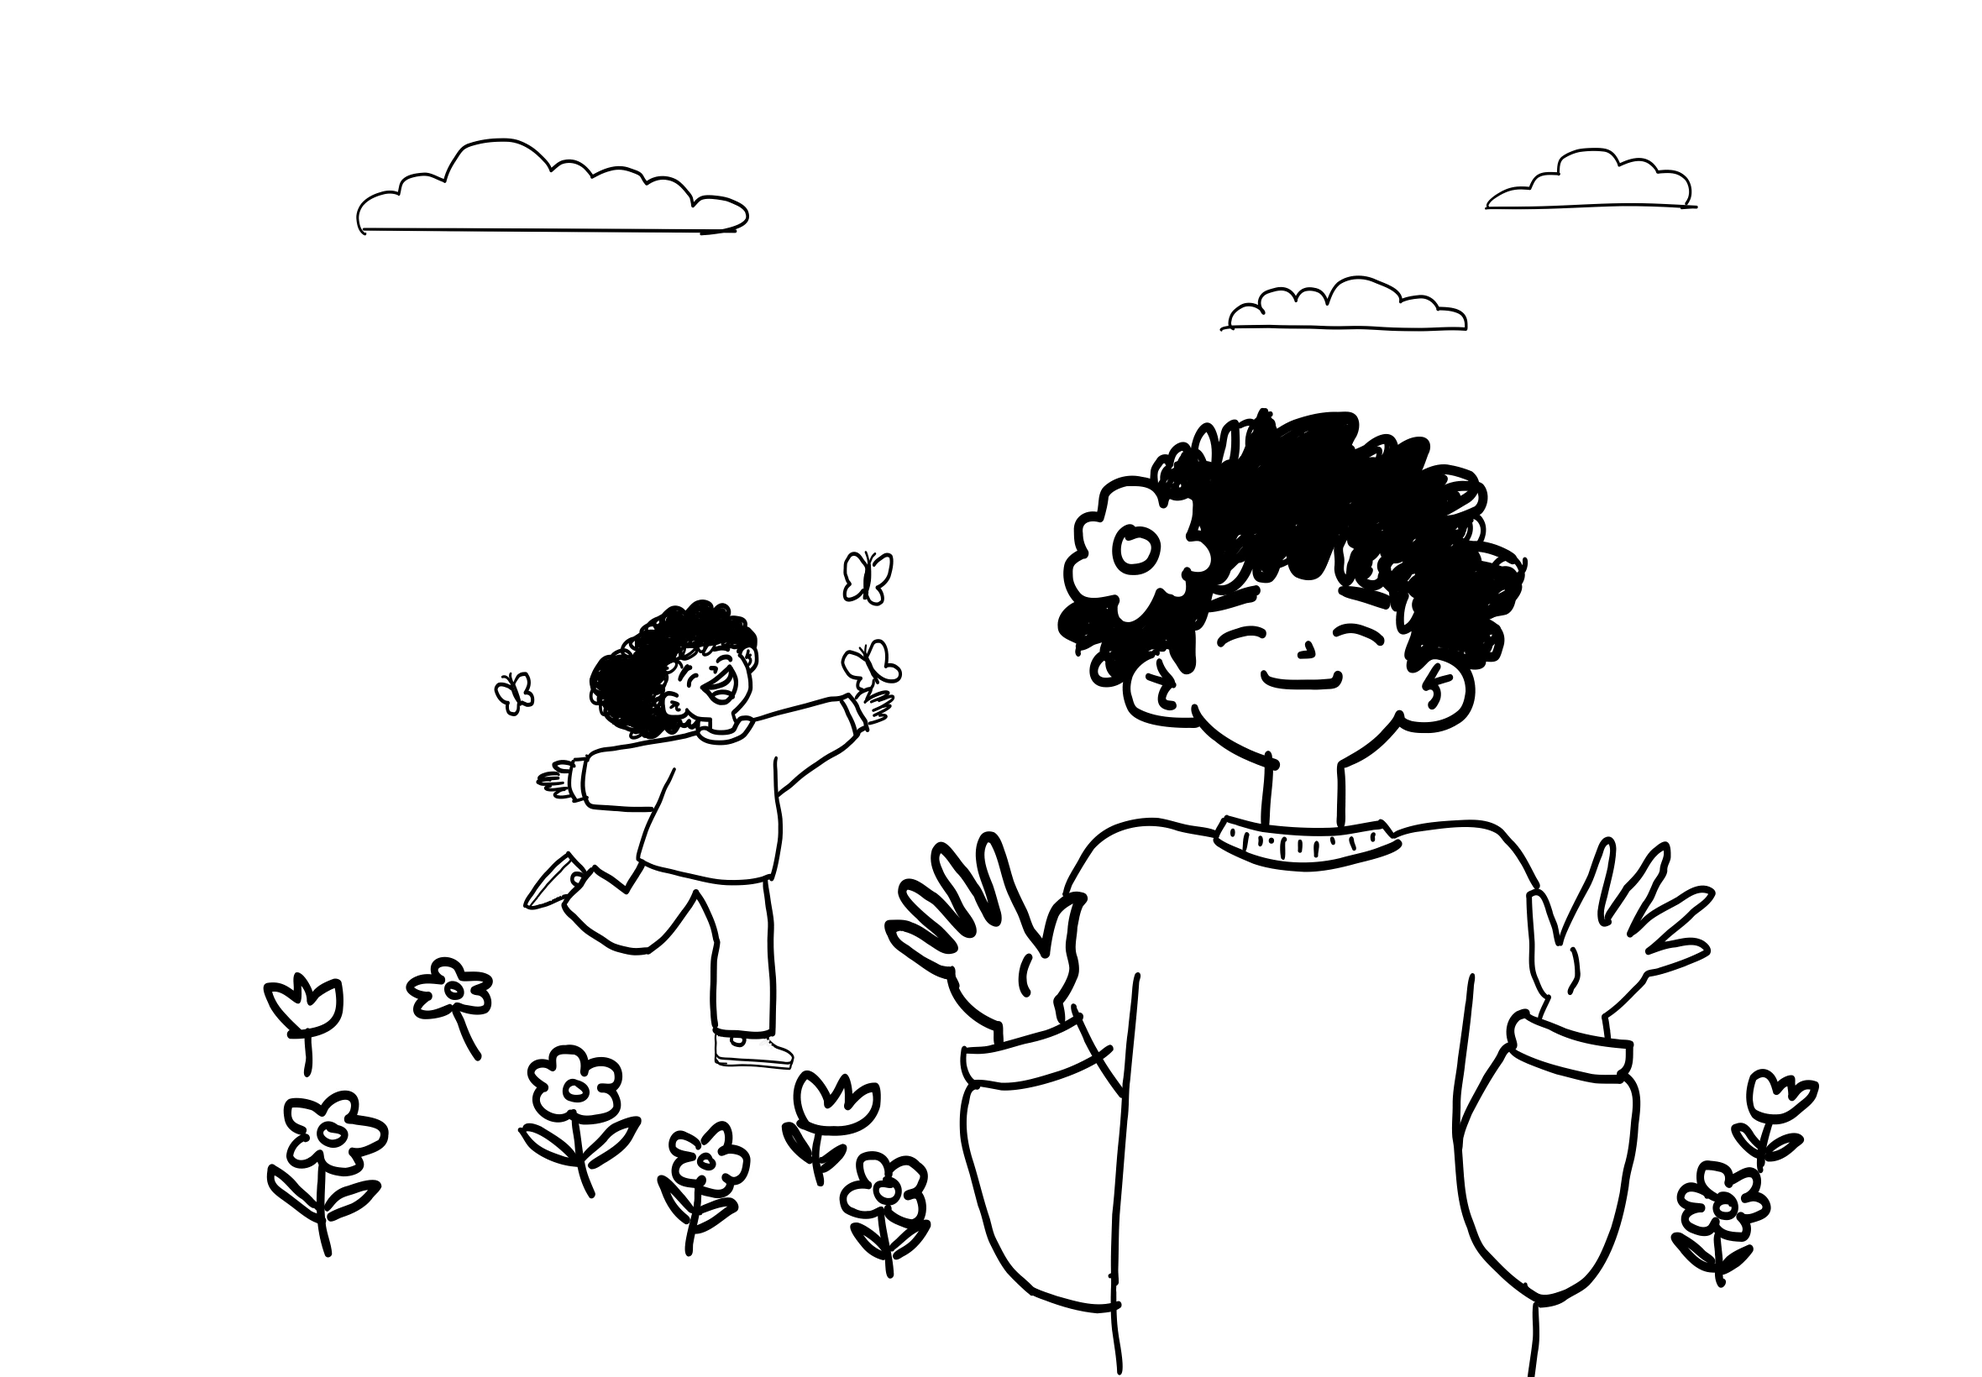
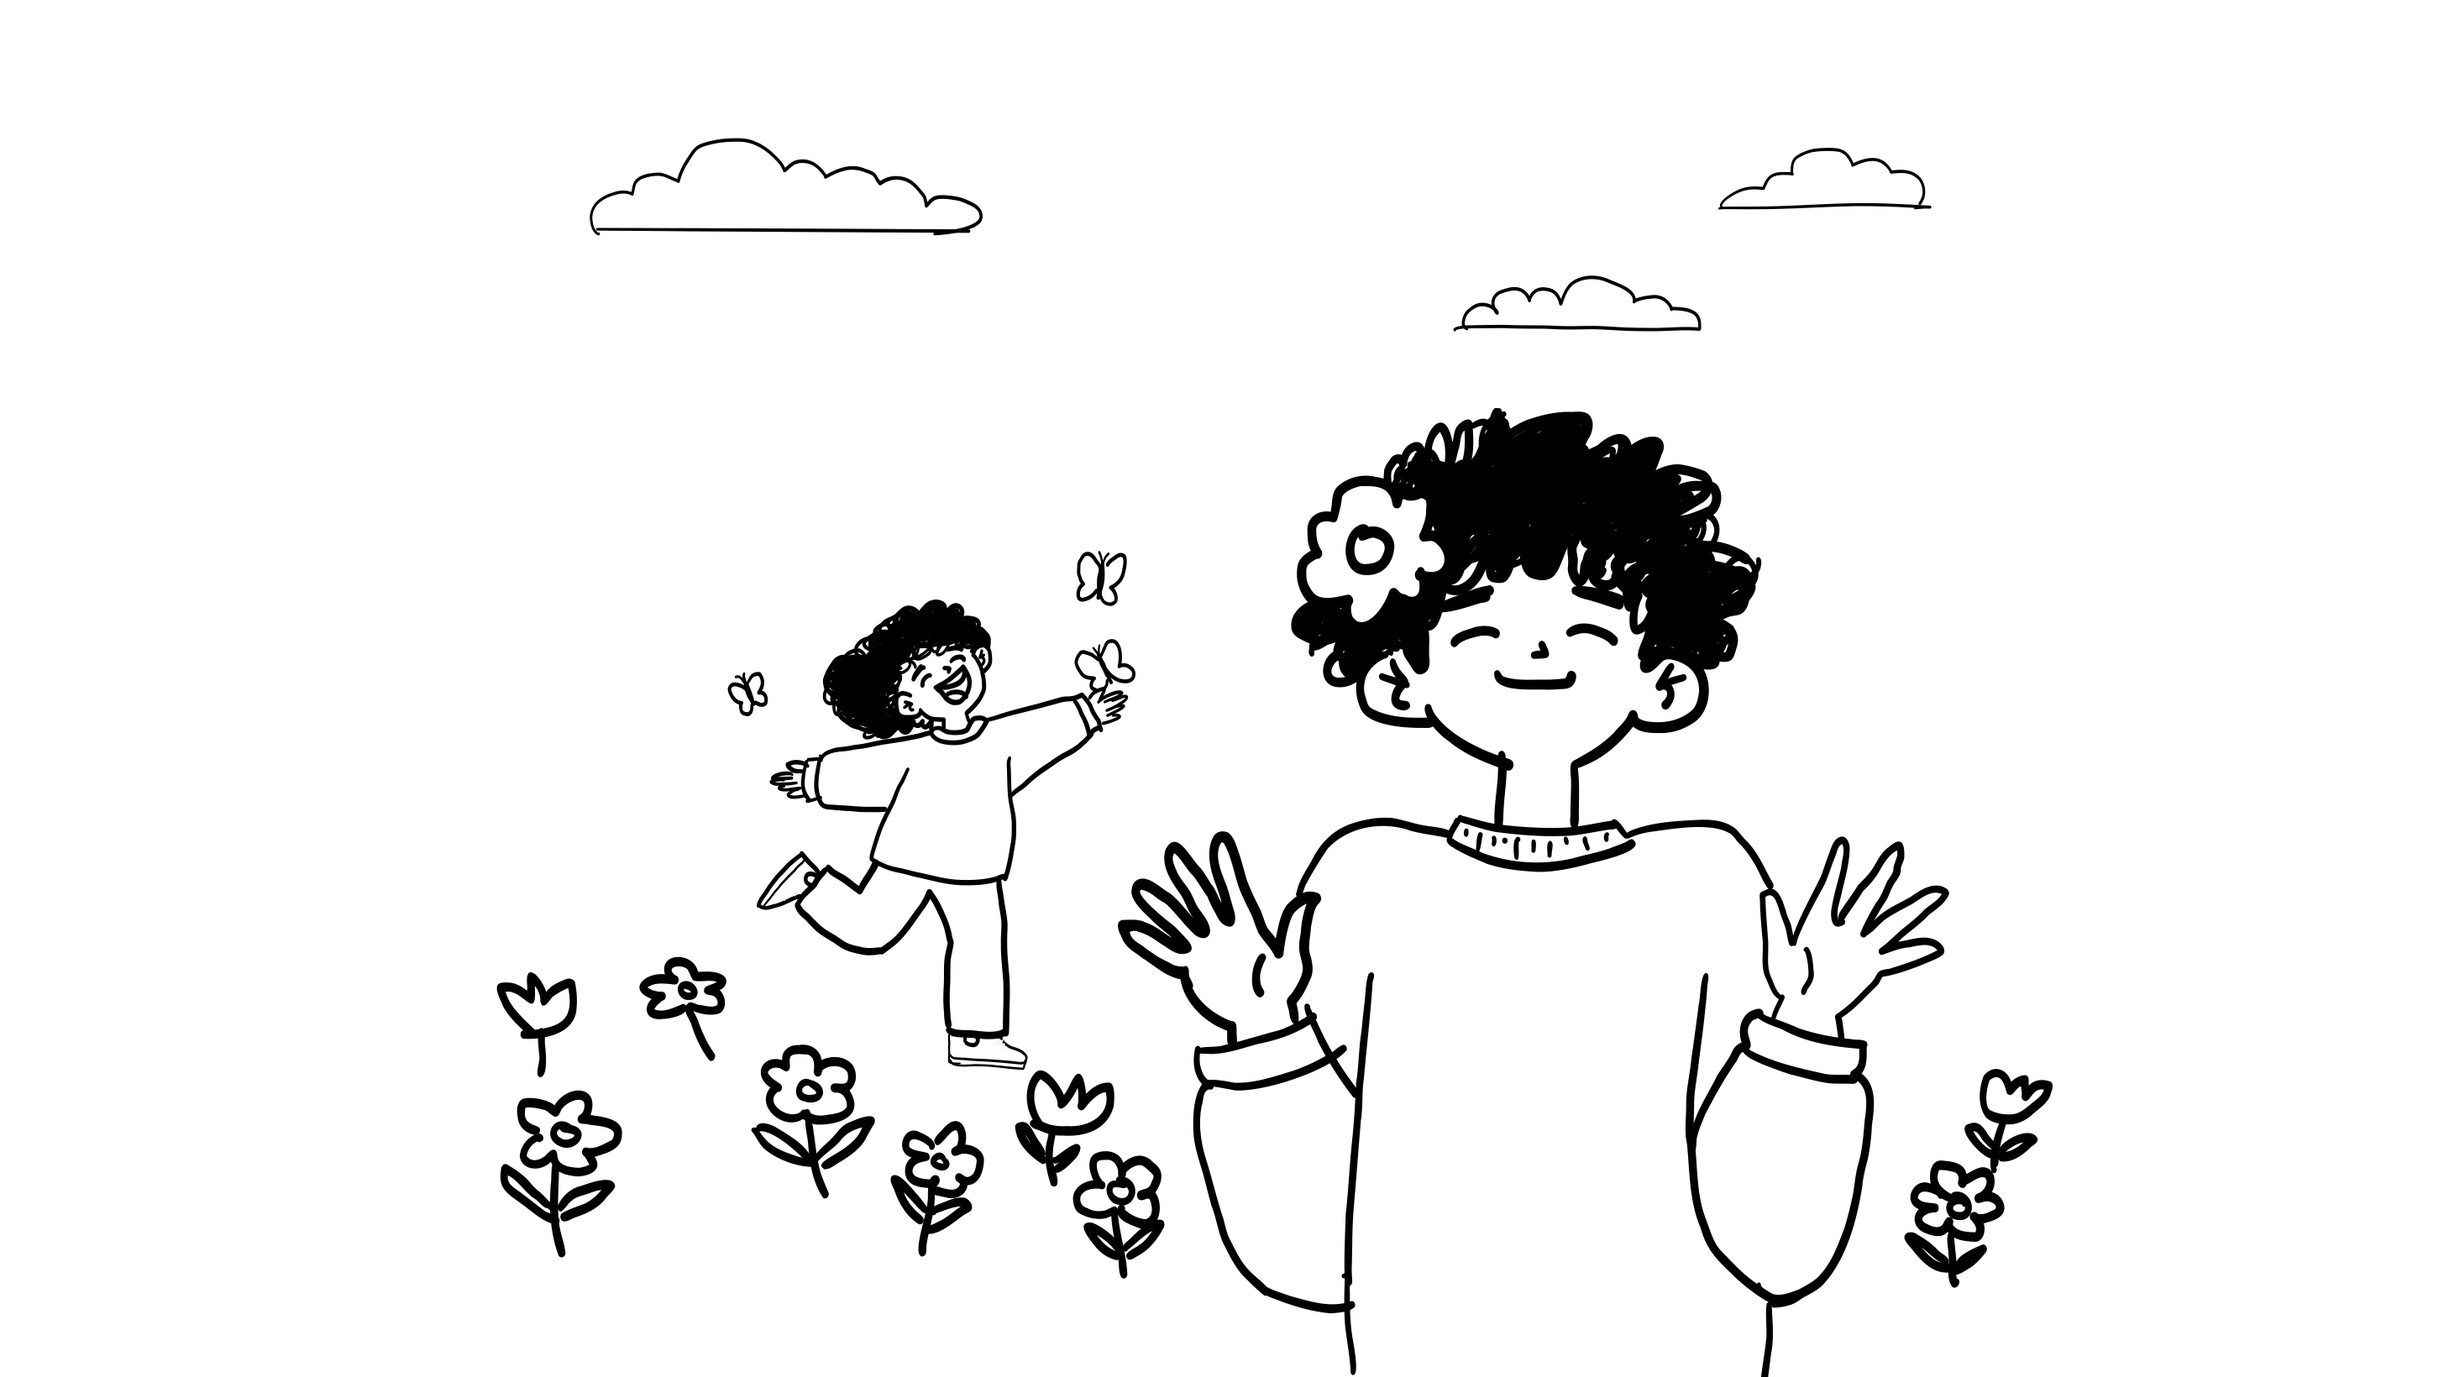
feat(storefront): 16:9 hero canvas, barless nav, and direct store scroll
Extend the hand-drawn outline and colour artwork from 2360x1640 (4:3) to
2916x1640 (16:9) with seamless side texture continuation so the full vertical
scene fits widescreen viewports without cropping. Make Navbar completely
barless (floating Devanagari wordmark left, centered Store / Community /
About Us links, and 3 icon buttons right). Remove the About copy, pillars,
and mascot below the hero so scrolling down opens the Store catalog directly.

Refs #91

diff --git a/src/components/layouts/navbar.tsx b/src/components/layouts/navbar.tsx
@@ -14,7 +14,7 @@ import { cn } from "@/lib/utils";
 const NAV_LINKS = [
   { href: "/store", label: "Store" },
   { href: "/community", label: "Community" },
-  { href: "/#about", label: "About Us" },
+  { href: "/contact", label: "About Us" },
 ] as const;
 
 function LogoLockup() {
@@ -22,7 +22,7 @@ function LogoLockup() {
     <Link
       href="/"
       aria-label="Vyom — home"
-      className="inline-flex items-center px-1 py-1 rounded-md text-foreground hover:opacity-80 transition-opacity"
+      className="inline-flex items-center py-1 text-foreground hover:opacity-75 transition-opacity"
     >
       <Wordmark className="text-3xl leading-none" />
     </Link>
@@ -34,9 +34,10 @@ interface NavbarProps {
 }
 
 /**
- * Mode A storefront navbar. Server component — fetches the Supabase
- * user once so the signed-in/out chrome renders without a client-side
- * roundtrip. The mobile menu trigger is a small client island.
+ * Floating minimal storefront navigation — no background bar or border.
+ * Left: Devanagari व्योम wordmark.
+ * Centre: Apple-style text links (Store, Community, About Us).
+ * Right: 3 icon symbols (Cart, Theme, Profile) + mobile drawer trigger.
  */
 export async function Navbar({ className }: NavbarProps) {
   const supabase = await createClient();
@@ -52,78 +53,70 @@ export async function Navbar({ className }: NavbarProps) {
   return (
     <header
       className={cn(
-        "sticky top-0 z-30 w-full",
-        "bg-background/70 backdrop-blur-xl border-b border-border/40",
-        "op:bg-background op:backdrop-blur-none op:border-border",
+        "sticky top-0 z-30 w-full bg-transparent",
         className,
       )}
     >
-      {/* Full-width navbar with tight edge-hugging padding so items
-          sit visibly on the viewport edges. */}
-      <div className="w-full px-5 sm:px-8">
-        <div className="flex h-16 items-center justify-between gap-4">
-          <LogoLockup />
+      <div className="relative flex h-16 w-full items-center justify-between px-5 sm:px-8">
+        <LogoLockup />
 
-          <nav className="hidden md:flex items-center gap-7">
-            {NAV_LINKS.map((link) => (
-              <Link
-                key={link.href}
-                href={link.href}
-                className={cn(
-                  "text-sm text-muted-foreground",
-                  "hover:text-foreground transition-colors duration-150",
-                )}
-              >
-                {link.label}
-              </Link>
-            ))}
-          </nav>
+        <nav className="hidden md:flex items-center gap-8 absolute left-1/2 -translate-x-1/2">
+          {NAV_LINKS.map((link) => (
+            <Link
+              key={link.href}
+              href={link.href}
+              className="text-sm font-normal tracking-tight text-foreground/80 hover:text-foreground transition-colors duration-150"
+            >
+              {link.label}
+            </Link>
+          ))}
+        </nav>
 
-          <div className="flex items-center gap-1.5">
+        <div className="flex items-center gap-1.5">
+          <Button
+            asChild
+            variant="ghost"
+            size="icon"
+            aria-label={
+              cartItemCount > 0 ? `Cart, ${cartItemCount} items` : "Cart"
+            }
+            className="relative hover:bg-black/5 dark:hover:bg-white/10"
+          >
+            <Link href="/cart">
+              <ShoppingCart className="size-5" />
+              {cartItemCount > 0 ? (
+                <span
+                  className={cn(
+                    "absolute -top-0.5 -right-0.5",
+                    "min-w-[18px] h-[18px] px-1 rounded-full",
+                    "bg-brand text-brand-foreground",
+                    "text-[10px] font-semibold leading-[18px] text-center",
+                    "tabular-nums tracking-tight",
+                  )}
+                  aria-hidden="true"
+                >
+                  {cartItemCount > 99 ? "99+" : cartItemCount}
+                </span>
+              ) : null}
+            </Link>
+          </Button>
+          <ThemeToggle />
+          {user ? (
+            <UserMenu user={user as User} isAdmin={admin} />
+          ) : (
             <Button
               asChild
               variant="ghost"
               size="icon"
-              aria-label={
-                cartItemCount > 0 ? `Cart, ${cartItemCount} items` : "Cart"
-              }
-              className="relative"
+              aria-label="Profile — Sign in"
+              className="hover:bg-black/5 dark:hover:bg-white/10"
             >
-              <Link href="/cart">
-                <ShoppingCart className="size-5" />
-                {cartItemCount > 0 ? (
-                  <span
-                    className={cn(
-                      "absolute -top-0.5 -right-0.5",
-                      "min-w-[18px] h-[18px] px-1 rounded-full",
-                      "bg-brand text-brand-foreground",
-                      "text-[10px] font-semibold leading-[18px] text-center",
-                      "tabular-nums tracking-tight",
-                    )}
-                    aria-hidden="true"
-                  >
-                    {cartItemCount > 99 ? "99+" : cartItemCount}
-                  </span>
-                ) : null}
+              <Link href="/sign-in">
+                <UserIcon className="size-5" />
               </Link>
             </Button>
-            <ThemeToggle />
-            {user ? (
-              <UserMenu user={user as User} isAdmin={admin} />
-            ) : (
-              <Button
-                asChild
-                variant="ghost"
-                size="icon"
-                aria-label="Profile — Sign in"
-              >
-                <Link href="/sign-in">
-                  <UserIcon className="size-5" />
-                </Link>
-              </Button>
-            )}
-            <MobileNavMenu links={NAV_LINKS} signedIn={Boolean(user)} />
-          </div>
+          )}
+          <MobileNavMenu links={NAV_LINKS} signedIn={Boolean(user)} />
         </div>
       </div>
     </header>

diff --git a/src/app/(storefront)/page.tsx b/src/app/(storefront)/page.tsx
@@ -1,40 +1,16 @@
-import Link from "next/link";
-import { ArrowRight } from "lucide-react";
-import { BookwormReading } from "@/components/features/store/bookworm-reading";
 import { HeroReveal } from "@/components/features/store/hero-reveal";
-import { Button } from "@/components/ui/button";
-import { Card, CardDescription, CardTitle } from "@/components/ui/card";
+import { StoreListing } from "@/components/features/store/store-listing";
 import { Container } from "@/components/layouts/container";
 import { Section } from "@/components/layouts/section";
-import { Row, Stack } from "@/components/layouts/stack";
-
-const PILLARS = [
-  {
-    title: "Physical books",
-    body: "Physical editions printed in India, packed by hand from Bangalore, shipped across the country.",
-    href: "/store",
-    cta: "Browse the catalog",
-  },
-  {
-    title: "Free support material",
-    body: "Watermarked PDFs and streaming audio for IBDP and IGCSE — bundled with the physical book, never sold separately.",
-    href: "/store",
-    cta: "Explore curricula",
-  },
-  {
-    title: "A small community",
-    body: "Creative Corner for student writing, plus a public feedback line straight to the team.",
-    href: "/community",
-    cta: "Visit the community",
-  },
-];
+import { Stack } from "@/components/layouts/stack";
+import { getBooks } from "@/lib/queries/books";
 
 export default async function HomePage({
   searchParams,
 }: {
   searchParams: Promise<Record<string, string | undefined>>;
 }) {
-  const params = await searchParams;
+  const [books, params] = await Promise.all([getBooks(), searchParams]);
   const isNotAdmin = params.auth_error === "not_admin";
 
   return (
@@ -48,73 +24,22 @@ export default async function HomePage({
         </div>
       ) : null}
 
-      {/* Full-bleed hand-drawn sketch → colour reveal (#91) */}
+      {/* Full-bleed 16:9 hand-drawn sketch → colour reveal (#91) */}
       <HeroReveal
         colorSrc="/demo/hero-color.webp"
         outlineSrc="/demo/hero-outline.webp"
       />
 
-      {/* About section reached directly after the colour reveal */}
-      <Section id="about" spacing="loose" className="scroll-mt-16">
+      {/* Scrolling past the hero opens the Store directly */}
+      <Section id="store" spacing="default" className="scroll-mt-16">
         <Container>
-          <Stack gap={12}>
-            <Stack gap={4} className="max-w-2xl">
-              <span className="text-eyebrow">About · Study resources · Bangalore</span>
-              <h1 className="text-display">Stories worth colouring in.</h1>
-              <p className="text-body-lg text-muted-foreground">
-                Vyom makes premium IBDP &amp; IGCSE Hindi study materials — written
-                with care by Seema Sachdeva and brought to life with colour. Every
-                physical book comes bundled with watermarked PDFs and streaming audio.
-              </p>
-              <Row gap={3} wrap>
-                <Button asChild>
-                  <Link href="/store">
-                    Browse the store <ArrowRight />
-                  </Link>
-                </Button>
-                <Button asChild variant="outline">
-                  <Link href="/community">Visit the community</Link>
-                </Button>
-              </Row>
+          <Stack gap={8}>
+            <Stack gap={3}>
+              <span className="text-eyebrow">Catalog</span>
+              <h1 className="text-display">Store</h1>
             </Stack>
 
-            <Stack gap={4} align="center">
-              <BookwormReading size="lg" />
-              <p className="text-caption text-center max-w-md">
-                Companions hidden around the site carry small Easter-egg
-                discount codes. This one prefers the quiet.
-              </p>
-            </Stack>
-          </Stack>
-        </Container>
-      </Section>
-
-      <Section>
-        <Container>
-          <Stack gap={6}>
-            <Stack gap={2}>
-              <span className="text-eyebrow">What&rsquo;s inside</span>
-              <h2 className="text-title">Three things, done well.</h2>
-            </Stack>
-            <div className="grid grid-cols-1 md:grid-cols-3 gap-4">
-              {PILLARS.map((p) => (
-                <Card key={p.title} variant="surface" padding="lg">
-                  <Stack gap={4}>
-                    <Stack gap={2}>
-                      <CardTitle>{p.title}</CardTitle>
-                      <CardDescription>{p.body}</CardDescription>
-                    </Stack>
-                    <div>
-                      <Button asChild size="sm" variant="outline">
-                        <Link href={p.href}>
-                          {p.cta} <ArrowRight />
-                        </Link>
-                      </Button>
-                    </div>
-                  </Stack>
-                </Card>
-              ))}
-            </div>
+            <StoreListing books={books} />
           </Stack>
         </Container>
       </Section>

diff --git a/src/components/features/store/hero-reveal.tsx b/src/components/features/store/hero-reveal.tsx
@@ -128,7 +128,7 @@ export function HeroReveal({
           src={outlineSrc}
           alt="Hand-drawn meadow sketch for Vyom"
           fetchPriority="high"
-          className="absolute inset-0 h-full w-full select-none object-cover object-center"
+          className="absolute inset-0 h-full w-full select-none object-cover object-bottom"
           draggable={false}
         />
 
@@ -149,7 +149,7 @@ export function HeroReveal({
             alt=""
             aria-hidden="true"
             fetchPriority="high"
-            className="h-full w-full select-none object-cover object-center"
+            className="h-full w-full select-none object-cover object-bottom"
             draggable={false}
           />
         </div>
@@ -171,20 +171,18 @@ export function HeroReveal({
           />
         ) : null}
 
-        {/* Scroll hint pill */}
+        {/* Scroll hint */}
         <div
           ref={hintRef}
-          className="pointer-events-none absolute bottom-7 left-1/2 z-20 -translate-x-1/2 text-center transition-opacity duration-300"
+          className="pointer-events-none absolute bottom-8 left-1/2 z-20 -translate-x-1/2 text-center transition-opacity duration-300"
         >
-          <div className="rounded-full border border-neutral-200/80 bg-white/80 px-4 py-1.5 shadow-sm backdrop-blur-sm">
-            <p className="text-xs sm:text-sm font-medium text-neutral-700 whitespace-nowrap">
-              {finePointer
-                ? "Move your cursor · scroll to bring it to life"
-                : "Scroll to bring it to life"}
-            </p>
-          </div>
-          <div className="mx-auto mt-2 h-8 w-5 rounded-full border border-neutral-400/80 bg-white/60 backdrop-blur-sm">
-            <div className="mx-auto mt-1.5 h-1.5 w-1 animate-bounce rounded-full bg-neutral-600" />
+          <p className="text-sm text-neutral-500">
+            {finePointer
+              ? "Move your cursor · scroll to bring it to life"
+              : "Scroll to bring it to life"}
+          </p>
+          <div className="mx-auto mt-2 h-8 w-5 rounded-full border border-neutral-300">
+            <div className="mx-auto mt-1.5 h-1.5 w-1 animate-bounce rounded-full bg-neutral-400" />
           </div>
         </div>
       </div>

diff --git a/BUILD-JOURNAL.md b/BUILD-JOURNAL.md
@@ -2122,3 +2122,4 @@ just added noise. CLAUDE.md §14 updated; rule saved to memory at
 1. **Hand-drawn hero artwork (`public/demo/hero-outline.webp`, `public/demo/hero-color.webp`)** — Processed user-supplied 2360×1640 hand-drawn meadow outline (`FrontpageOutline.PNG`) and colour artwork (`Untitled - 12 November 2026 19.33.JPG`) via `sharp` into optimised WebP and PNG assets in `public/demo/`.
 2. **Storefront `<HeroReveal />` (`src/components/features/store/hero-reveal.tsx` & `src/app/(storefront)/page.tsx`)** — Promoted the cursor-tracked + scroll-expanding radial sketch-to-colour reveal from `/demo/hero` to the main homepage (`/`), followed by the `#about` section (*"Stories worth colouring in"*), Three Pillars, and `<BookwormReading />`.
 3. **Top navigation cleanup (`src/components/layouts/navbar.tsx` & `src/components/layouts/footer.tsx`)** — Removed top-level `IBDP` and `IGCSE` links from `Navbar` (kept in `/store` filters and footer), updated top nav to `Store`, `Community`, and `About Us` (`/#about`), set the left brand lockup to the Devanagari `व्योम` `<Wordmark />`, and aligned right-side controls (`Cart`, `ThemeToggle`, `Profile`).
+4. **16:9 Canvas Extension, Barless Nav & Direct-to-Store Scroll (`src/app/(storefront)/page.tsx`, `src/components/layouts/navbar.tsx`)** — Extended `hero-outline` and `hero-color` from 4:3 (2360×1640) to 16:9 widescreen (2916×1640) via seamless side-texture continuation so the full vertical height of the illustration fits desktop screens without cropping. Removed the background bar/border from `Navbar` (floating `व्योम` left, Apple-style centered `Store · Community · About Us`, 3 icon symbols right), removed the placeholder About/Pillars/Mascot blocks from `/`, and wired scrolling past the hero directly into `<StoreListing />`.
